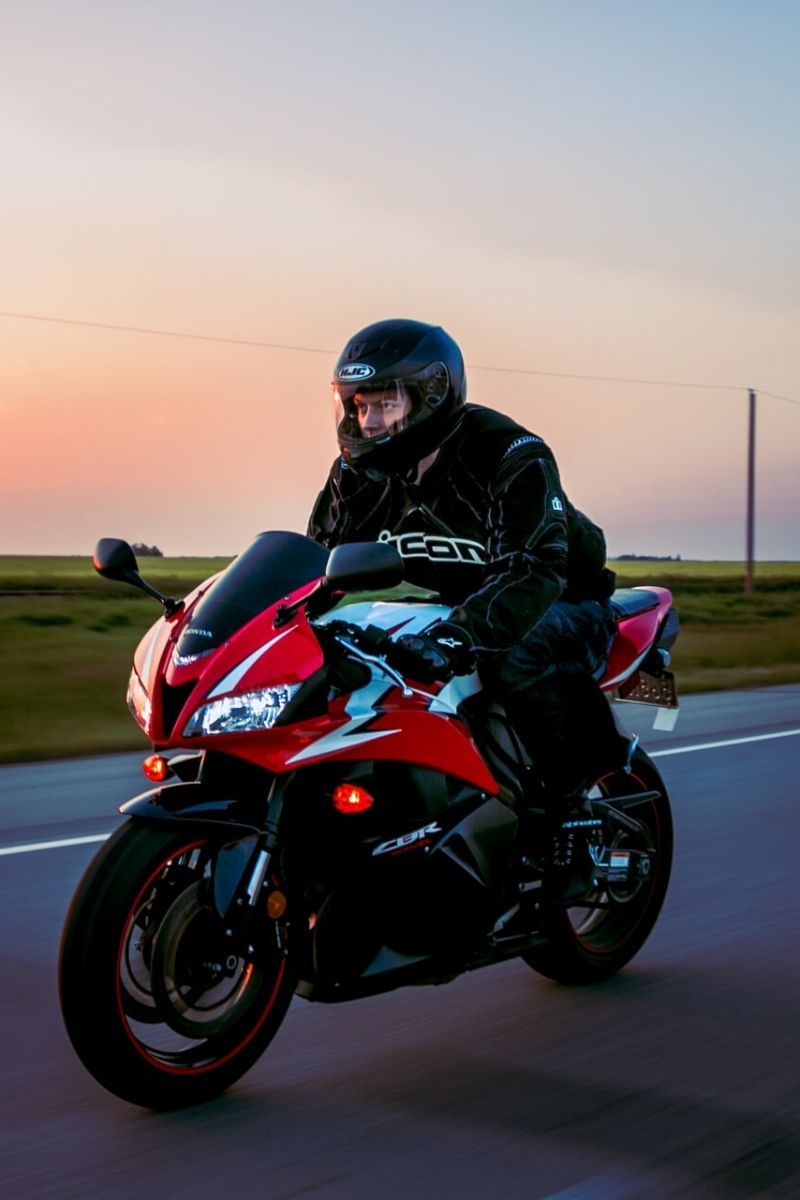
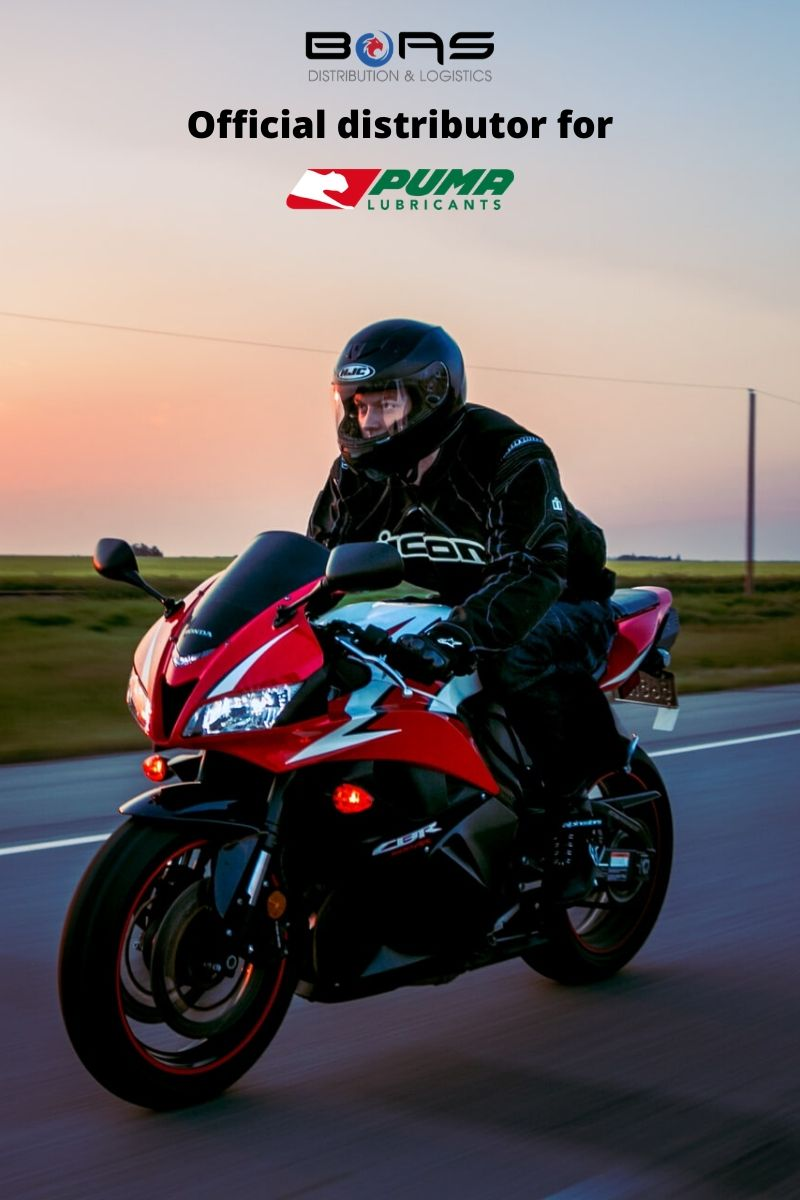
redid the layout for the index page

Changed region(s): [[0.2188, 0.0, 0.7812, 0.185]]

diff --git a/index.html b/index.html
@@ -40,11 +40,6 @@
 		</nav>	
 		<!-- Header -->
 			<section id="header">
-				<div class="hero-text">
-					<img src="./images/logoTrans.png"/>
-					<h3>Official Distributor of</h3>
-					<img src="./images/puma-lubricants.png"/>					
-				</div>
 			</section>
 
 
@@ -60,6 +55,7 @@
 					<div class="card lubeCard">
 						<img src="./images/Blackbusiness-1.jpg" alt="..." >
 						<div class="card-body">
+							<h5 class="card-title">15W-40</h5>
 							<p class="card-text">
 								Puma Diesel Engine Oils are high quality multi-grade long drain lubricating oils, primarily manufactured...
 							</p>
@@ -68,6 +64,7 @@
 					<div class="card lubeCard">
 						<img src="./images/sae-40.png" alt="sae-40" >
 						<div class="card-body">
+							<h5 class="card-title">SAE-40</h5>
 							<p class="card-text">
 								Puma Monograde Motor Oils are high quality lubricating oils specially developed for use in both petrol and...
 							
@@ -77,6 +74,7 @@
 					<div class="card lubeCard">
 						<img src="./images/2-stroke.jpg" alt="..." >
 						<div class="card-body">
+							<h5 class="card-title">2-Stroke</h5>
 							<p class="card-text">
 								Puma 2 Stroke Motorbike Oil is a lubricant for use in gasoline-oil (petrol) mixtures employed in air-cooled...
 							</p>
@@ -85,6 +83,7 @@
 					<div class="card lubeCard">
 						<img src="./images/atf.jpg" alt="..." >
 						<div class="card-body">
+							<h5 class="card-title">ATF II</h5>
 							<p class="card-text">
 								Puma ATF II is a special fluid employed mainly in modern automatic transmissions and in many other...
 							</p>

diff --git a/assets/css/main.css b/assets/css/main.css
@@ -2341,10 +2341,11 @@ input, select, textarea {
 			#header {        
 				padding: 5em 0;
 				z-index: -1;
-				background: url('../css/images/hero-mobile.jpg') no-repeat center top;
-				margin: -8em 0 0 0;
+				background: url('../css/images/hero-mobile.jpg') no-repeat;
+				margin: 0;
 				display: flex;
-				min-height: 900px;
+				background-size: cover;
+				min-height: 600px;
 			}
 
 			.hero-text{
@@ -2383,12 +2384,17 @@ input, select, textarea {
 
 			.lubesCopy{
 				text-align: left;
-				padding: 1em;
+				color: #143359;
 			}
 
 			.lubeCard{
 				display: flex;
-				margin: 1em;
+			}
+
+			.lubeCard img{
+				width: 150px;
+				height: auto;				
+				margin: 0 auto;
 			}
 
 			.card{
@@ -2397,7 +2403,14 @@ input, select, textarea {
 
 			.card-text{
 				text-align: left;
-				margin: 2em 0;
+				margin-bottom: 3em !important;
+				color: #143359;
+			}
+
+			.card-title {
+				margin-bottom: 0;
+				margin-top: 1em;
+				color: #143359;
 			}
 
 			.aboutTxt{
@@ -2415,6 +2428,11 @@ input, select, textarea {
 			.submitBtn{
 				background-color: red;
 				margin: 1em;
+			}
+
+			.contact-info{
+				
+				color: #143359;
 			}
 
 
@@ -2533,6 +2551,7 @@ input, select, textarea {
 
 			.contact-info{
 				margin-left: 2em;
+				color: #143359;
 			}
 
 			.contact-info li{
